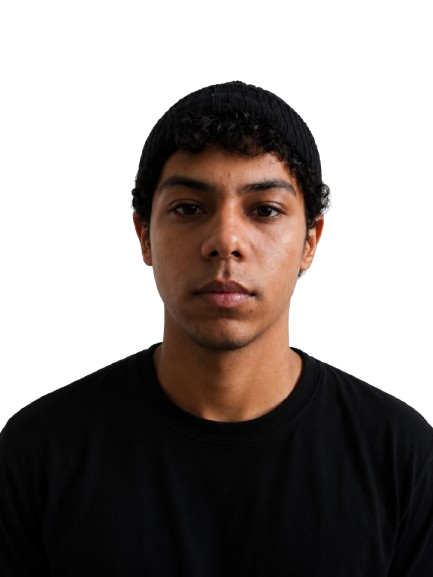
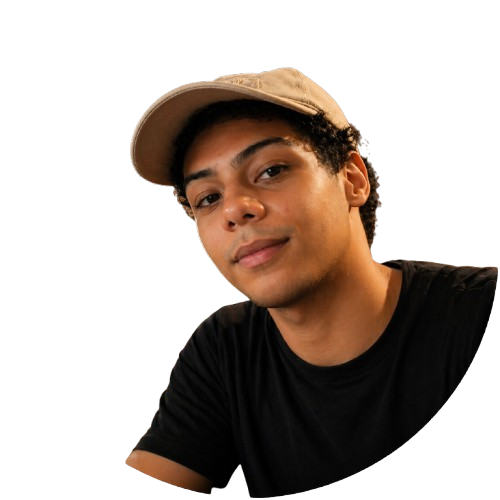
chore: atualiza foto do DJ (tiramisu-photo.png)

diff --git a/components/PressKit.tsx b/components/PressKit.tsx
@@ -72,6 +72,8 @@ export function PressKit() {
               width={420}
               height={560}
               priority
+              unoptimized
+              key={links.photoVersion}
               className="relative h-auto w-full max-h-[min(70vh,520px)] object-contain drop-shadow-[0_20px_50px_rgba(139,92,246,0.35)]"
             />
           </div>

diff --git a/lib/presskit-data.ts b/lib/presskit-data.ts
@@ -7,6 +7,8 @@ export const links = {
   whatsapp: "71984313715",
   whatsappHref: "https://wa.me/5571984313715",
   emailHref: "mailto:joaopecurcino@hotmail.com",
+  /** Bump `photoVersion` ao trocar o ficheiro em public/tiramisu-photo.png */
+  photoVersion: "2",
   photo: "/tiramisu-photo.png",
 } as const;
 
